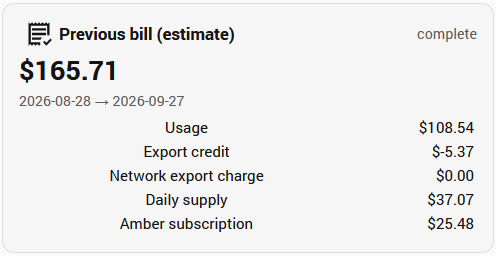
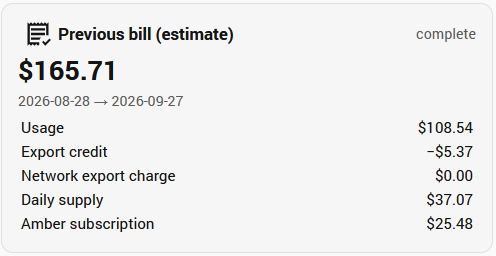
Docs: rc1 retakes of the device page, sensors and previous-bill screenshots

diff --git a/docs/INSTALL.md b/docs/INSTALL.md
@@ -140,7 +140,7 @@ Open the site's device (named after your site, for example **Home**) to see its 
 Its model line shows the network and the NMI's last four digits, for example
 "Endeavour Energy · NMI …1234":
 
-<img src="images/device-page.png" alt="The device page after setup" width="627">
+<img src="images/device-page.png" alt="The device page after setup" width="626">
 
 - **Import status** reads **Up to date** when everything is imported.
 - **Last imported date** is normally yesterday, because Amber publishes each day's usage
@@ -156,7 +156,7 @@ Its model line shows the network and the NMI's last four digits, for example
 - With the **bill estimate** or the **export allowance** turned on (section 5), their
   sensors appear here too:
 
-  <img src="images/new-sensors.png" alt="The sensors with the bill estimate and the export allowance on" width="234">
+  <img src="images/new-sensors.png" alt="The sensors with the bill estimate and the export allowance on" width="236">
 
 - With a **grid meter** and a **live price**, **Today's cost so far (estimated)** and
   **Today's feed-in so far (estimated)** appear here too ([Today so far](#today-so-far)).
